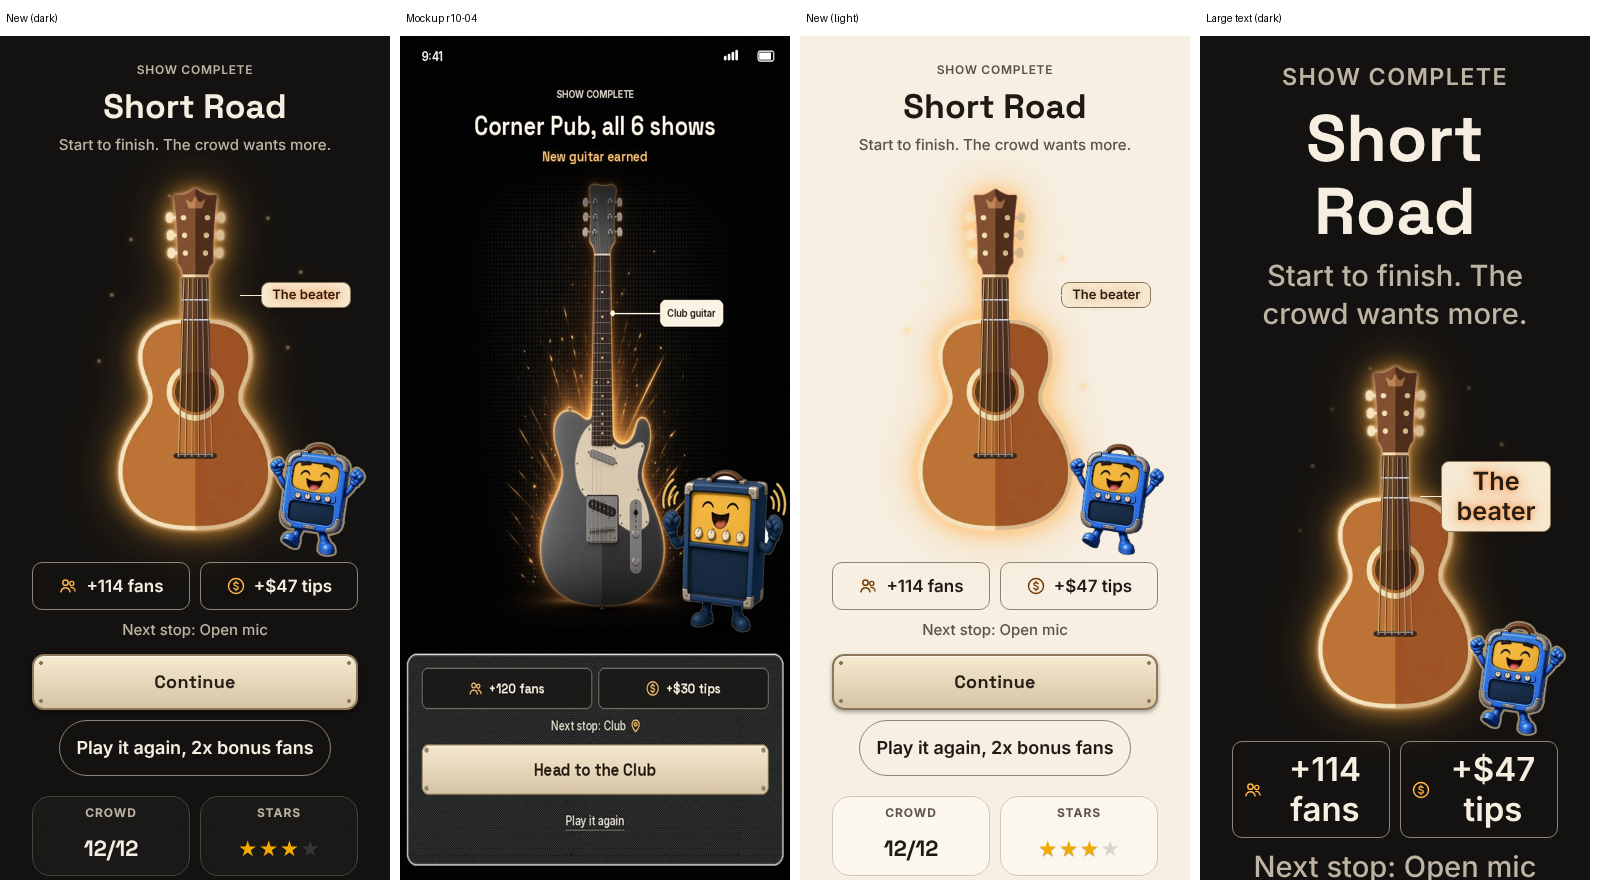
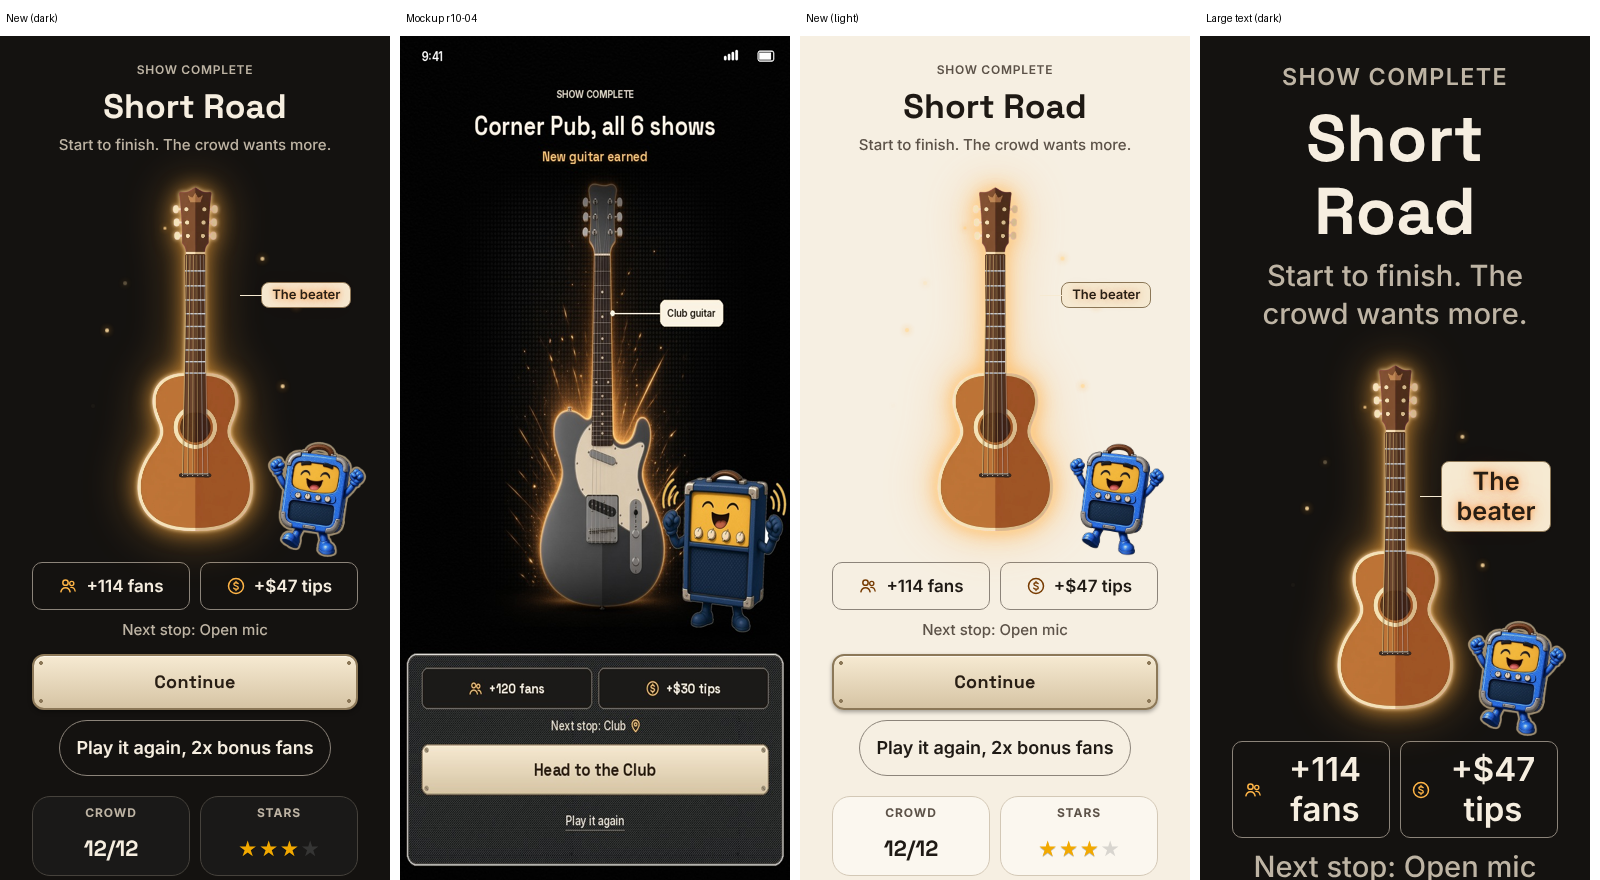
Road Ready 06: the guitar on Show complete has a full-length neck
The guitar was drawn with a two-space neck, which looked stubby at full size. On Show
complete it now has a neck about 0.7 of its body, as on a real guitar, and so does the
case's fallback drawing when a guitar has no whole-guitar picture. The Road's necks and
the Green Room sheet are unchanged. Unit test for the proportion on every guitar
picture; Show complete checks the guitar's shape. Screenshots remade. Surprise 112.

Claude-Session: https://claude.ai/code/session_01JnUP812THQxMaFYV1DxrCe

diff --git a/core.js b/core.js
@@ -8,7 +8,7 @@ import { PASSPORT, PRACTICE_PLAY, STREAK_GOALS, isBarre, journalGot, journalOf, 
 import { DRUM_BEATS, DRUM_PARTS, DRUM_SWING, GROOVE, barHits, cleanDrums, cleanGroove, drumBeatName, drumHits, drumLevelBar, drumStyle, grooveOf, grooveText, partOf, soundOffset } from "./core/groove.js";
 import { GUITAR_SHARE, HEX_KM2, HEX_M, HOLD_DAYS, PRACTICE_MEDIAN, PRACTICE_SPREAD, VENUES, cellsOutline, claimCells, cleanTour, coarseSpot, densityAt, edgePressure, hexNeighbours, hexSpiral, lifetimePlays, localBar, percentileOf, playsForCells, rng, sceneMap, seedOf, simulateRivals, takeoverPlan, territory, tourDay, userAvg7, venueName, venueOf, zOf, cornersSettle } from "./core/turf.js";
 import { CHORD_EXTRA, CHORD_FIT, HEAR, SCALES, chordLead, chordLeadOver, SKILL_LEVELS, bleedProfile, buzzRms, strumFit, chordNotes, chordTargets, chromaOf, cleanSkills, gradeSwitches, judgeTarget, pitchRms, practiceRate, practicing, scaleTargets, skillDone, skillState, roadNote, chordPlays, songsWith, KNOW_PLAYS, stringRange, strumDetector, strumLine, trackFloor } from "./core/neck.js";
-import { COMBO_STEPS, CALLOUT_LOOKS, achSettle, castFor, pickLook, CHANGES_DAYS, changesToWork, LESSON_PASSES, LESSON_XP, lessonDone, lessonKeep, lessonOfDay, lessonPartOf, BAND, BOX_EVERY, GUITARS, guitarFor, guitarNew, guitarsEarned, fretLayout, FRET_STEPS, FRET_MIN, FRET_HEAD, FRET_BODY, cleanGuitars, ME_STARTERS, ME_DEFAULT, ME_HAIR, ME_HAIR_COL, ME_TOP_COL, ME_BEARD, ME_HATS, ME_PATCHES, PATCH_COLOR, STAGE_LOOKS, cleanMe, meOf, meMood, rivalMe, stageLook, stageLookOf, patchesAll, patchesOf, boxesSeed, cleanBoxes, openBox, CHART_DEMOTE, CHART_PROMOTE, COVER_MULT, FANS, FRIEND_QUEST, MERCH, OPENING, QUEST, SOUNDCHECK_XP, XP, addXP, bandMeet, bandParts, bandState, battleFor, chartRivals, chartState, chartsSettle, cleanBand, cleanCharts, cleanDuelLink, cleanDuels, cleanGig, cleanMerch, cleanFame, cleanOpening, cleanQuests, cleanRehearse, cleanXP, coverState, duelRecord, duelWon, fansOf, fansNow, fansToSpend, fameSettle, venueNow, tipsOf, gigTips, tipsMigrate, FADE, friendQuest, friendQuestPick, friendQuestSettle, friendsOf, gelOf, gigCrowd, gigDone, gigFans, gigStart, relativeOf, catchTargets, targetAt, catchStart, catchAt, catchClose, beatsLate, knownChords, merchBuy, merchState, merchTip, merchWear, merchWorn, headlined, looksOwned, lookOfTheme, missedChanges, noteHeard, openingAdvance, openingOn, openingReplay, openingSkip, openingStep, openingView, playableSongs, questState, questsSettle, rainSettle, rehearseMisses, requestSong, roadPath, secondTake, sheetChords, soundcheck, soundcheckDone, startBattle, startDuel, takeDuel, weekOf, weekXP, badgesOf, levelOf, levelStart, xpTotal, showPlayed, showPaused, showWhole, stretchOf, STRETCH, starsOf, starsSettle, STAR_NAMES, STAR_FANS } from "./core/game.js";
+import { COMBO_STEPS, CALLOUT_LOOKS, achSettle, castFor, pickLook, CHANGES_DAYS, changesToWork, LESSON_PASSES, LESSON_XP, lessonDone, lessonKeep, lessonOfDay, lessonPartOf, BAND, BOX_EVERY, GUITARS, guitarFor, guitarNew, guitarsEarned, fretLayout, FRET_STEPS, FRET_MIN, FRET_HEAD, FRET_BODY, FULL_NECK, neckStops, cleanGuitars, ME_STARTERS, ME_DEFAULT, ME_HAIR, ME_HAIR_COL, ME_TOP_COL, ME_BEARD, ME_HATS, ME_PATCHES, PATCH_COLOR, STAGE_LOOKS, cleanMe, meOf, meMood, rivalMe, stageLook, stageLookOf, patchesAll, patchesOf, boxesSeed, cleanBoxes, openBox, CHART_DEMOTE, CHART_PROMOTE, COVER_MULT, FANS, FRIEND_QUEST, MERCH, OPENING, QUEST, SOUNDCHECK_XP, XP, addXP, bandMeet, bandParts, bandState, battleFor, chartRivals, chartState, chartsSettle, cleanBand, cleanCharts, cleanDuelLink, cleanDuels, cleanGig, cleanMerch, cleanFame, cleanOpening, cleanQuests, cleanRehearse, cleanXP, coverState, duelRecord, duelWon, fansOf, fansNow, fansToSpend, fameSettle, venueNow, tipsOf, gigTips, tipsMigrate, FADE, friendQuest, friendQuestPick, friendQuestSettle, friendsOf, gelOf, gigCrowd, gigDone, gigFans, gigStart, relativeOf, catchTargets, targetAt, catchStart, catchAt, catchClose, beatsLate, knownChords, merchBuy, merchState, merchTip, merchWear, merchWorn, headlined, looksOwned, lookOfTheme, missedChanges, noteHeard, openingAdvance, openingOn, openingReplay, openingSkip, openingStep, openingView, playableSongs, questState, questsSettle, rainSettle, rehearseMisses, requestSong, roadPath, secondTake, sheetChords, soundcheck, soundcheckDone, startBattle, startDuel, takeDuel, weekOf, weekXP, badgesOf, levelOf, levelStart, xpTotal, showPlayed, showPaused, showWhole, stretchOf, STRETCH, starsOf, starsSettle, STAR_NAMES, STAR_FANS } from "./core/game.js";
 import { BOOTH_MAX, BOOTH_PLACES, BOOTH_RATE, BOOTH_RIVALS, boothCall, boothChord, boothLabel, boothPath, boothSay, boothSummary, downsample, toBase64, wavBytes, BOOTH_CHORDS, BOOTH_SWITCHES, BOOTH_SECS, BOOTH_THUMB, BOOTH_STRUMS, BOOTH_PLAN, boothNext, boothVerdict, boothSteps, boothSetup, boothSetupKey, boothChange, BOOTH_MORE_CHORDS, BOOTH_MORE_SWITCHES, BOOTH_MORE, BOOTH_LISTS, BOOTH_BODIES, BOOTH_AMPS, boothState, boothGuitar, boothAmpLine, boothServerOk, boothInvite, boothReadInvite } from "./core/booth.js";
 import { ytId, cleanYt, ytAt, ytSong, ytMatches } from "./core/youtube.js";
 
@@ -1529,6 +1529,6 @@ export { PASSPORT, PRACTICE_PLAY, STREAK_GOALS, isBarre, journalGot, journalOf, 
 export { DRUM_BEATS, DRUM_PARTS, DRUM_SWING, GROOVE, barHits, cleanDrums, cleanGroove, drumBeatName, drumHits, drumLevelBar, drumStyle, grooveOf, grooveText, partOf, soundOffset };
 export { GUITAR_SHARE, HEX_KM2, HEX_M, HOLD_DAYS, PRACTICE_MEDIAN, PRACTICE_SPREAD, VENUES, cellsOutline, claimCells, cleanTour, coarseSpot, densityAt, edgePressure, hexNeighbours, hexSpiral, lifetimePlays, localBar, percentileOf, playsForCells, rng, sceneMap, seedOf, simulateRivals, takeoverPlan, territory, tourDay, userAvg7, venueName, venueOf, zOf, cornersSettle };
 export { CHORD_EXTRA, CHORD_FIT, HEAR, SCALES, chordLead, chordLeadOver, SKILL_LEVELS, bleedProfile, buzzRms, strumFit, chordNotes, chordTargets, chromaOf, cleanSkills, gradeSwitches, judgeTarget, pitchRms, practiceRate, practicing, scaleTargets, skillDone, skillState, roadNote, chordPlays, songsWith, KNOW_PLAYS, stringRange, strumDetector, strumLine, trackFloor };
-export { COMBO_STEPS, CALLOUT_LOOKS, achSettle, castFor, pickLook, CHANGES_DAYS, changesToWork, LESSON_PASSES, LESSON_XP, lessonDone, lessonKeep, lessonOfDay, lessonPartOf, BAND, BOX_EVERY, GUITARS, guitarFor, guitarNew, guitarsEarned, fretLayout, FRET_STEPS, FRET_MIN, FRET_HEAD, FRET_BODY, cleanGuitars, ME_STARTERS, ME_DEFAULT, ME_HAIR, ME_HAIR_COL, ME_TOP_COL, ME_BEARD, ME_HATS, ME_PATCHES, PATCH_COLOR, STAGE_LOOKS, cleanMe, meOf, meMood, rivalMe, stageLook, stageLookOf, patchesAll, patchesOf, boxesSeed, cleanBoxes, openBox, CHART_DEMOTE, CHART_PROMOTE, COVER_MULT, FANS, FRIEND_QUEST, MERCH, OPENING, QUEST, SOUNDCHECK_XP, XP, addXP, bandMeet, bandParts, bandState, battleFor, chartRivals, chartState, chartsSettle, cleanBand, cleanCharts, cleanDuelLink, cleanDuels, cleanGig, cleanMerch, cleanFame, cleanOpening, cleanQuests, cleanRehearse, cleanXP, coverState, duelRecord, duelWon, fansOf, fansNow, fansToSpend, fameSettle, venueNow, tipsOf, gigTips, tipsMigrate, FADE, friendQuest, friendQuestPick, friendQuestSettle, friendsOf, gelOf, gigCrowd, gigDone, gigFans, gigStart, relativeOf, catchTargets, targetAt, catchStart, catchAt, catchClose, beatsLate, knownChords, merchBuy, merchState, merchTip, merchWear, merchWorn, headlined, looksOwned, lookOfTheme, missedChanges, noteHeard, openingAdvance, openingOn, openingReplay, openingSkip, openingStep, openingView, playableSongs, questState, questsSettle, rainSettle, rehearseMisses, requestSong, roadPath, secondTake, sheetChords, soundcheck, soundcheckDone, startBattle, startDuel, takeDuel, weekOf, weekXP, badgesOf, levelOf, levelStart, xpTotal, showPlayed, showPaused, showWhole, stretchOf, STRETCH, starsOf, starsSettle, STAR_NAMES, STAR_FANS };
+export { COMBO_STEPS, CALLOUT_LOOKS, achSettle, castFor, pickLook, CHANGES_DAYS, changesToWork, LESSON_PASSES, LESSON_XP, lessonDone, lessonKeep, lessonOfDay, lessonPartOf, BAND, BOX_EVERY, GUITARS, guitarFor, guitarNew, guitarsEarned, fretLayout, FRET_STEPS, FRET_MIN, FRET_HEAD, FRET_BODY, FULL_NECK, neckStops, cleanGuitars, ME_STARTERS, ME_DEFAULT, ME_HAIR, ME_HAIR_COL, ME_TOP_COL, ME_BEARD, ME_HATS, ME_PATCHES, PATCH_COLOR, STAGE_LOOKS, cleanMe, meOf, meMood, rivalMe, stageLook, stageLookOf, patchesAll, patchesOf, boxesSeed, cleanBoxes, openBox, CHART_DEMOTE, CHART_PROMOTE, COVER_MULT, FANS, FRIEND_QUEST, MERCH, OPENING, QUEST, SOUNDCHECK_XP, XP, addXP, bandMeet, bandParts, bandState, battleFor, chartRivals, chartState, chartsSettle, cleanBand, cleanCharts, cleanDuelLink, cleanDuels, cleanGig, cleanMerch, cleanFame, cleanOpening, cleanQuests, cleanRehearse, cleanXP, coverState, duelRecord, duelWon, fansOf, fansNow, fansToSpend, fameSettle, venueNow, tipsOf, gigTips, tipsMigrate, FADE, friendQuest, friendQuestPick, friendQuestSettle, friendsOf, gelOf, gigCrowd, gigDone, gigFans, gigStart, relativeOf, catchTargets, targetAt, catchStart, catchAt, catchClose, beatsLate, knownChords, merchBuy, merchState, merchTip, merchWear, merchWorn, headlined, looksOwned, lookOfTheme, missedChanges, noteHeard, openingAdvance, openingOn, openingReplay, openingSkip, openingStep, openingView, playableSongs, questState, questsSettle, rainSettle, rehearseMisses, requestSong, roadPath, secondTake, sheetChords, soundcheck, soundcheckDone, startBattle, startDuel, takeDuel, weekOf, weekXP, badgesOf, levelOf, levelStart, xpTotal, showPlayed, showPaused, showWhole, stretchOf, STRETCH, starsOf, starsSettle, STAR_NAMES, STAR_FANS };
 export { BOOTH_MAX, BOOTH_PLACES, BOOTH_RATE, BOOTH_RIVALS, boothCall, boothChord, boothLabel, boothPath, boothSay, boothSummary, downsample, toBase64, wavBytes, BOOTH_CHORDS, BOOTH_SWITCHES, BOOTH_SECS, BOOTH_THUMB, BOOTH_STRUMS, BOOTH_PLAN, boothNext, boothVerdict, boothSteps, boothSetup, boothSetupKey, boothChange, BOOTH_MORE_CHORDS, BOOTH_MORE_SWITCHES, BOOTH_MORE, BOOTH_LISTS, BOOTH_BODIES, BOOTH_AMPS, boothState, boothGuitar, boothAmpLine, boothServerOk, boothInvite, boothReadInvite };
 export { ytId, cleanYt, ytAt, ytSong, ytMatches };

diff --git a/fretboard.js b/fretboard.js
@@ -9,7 +9,7 @@
 //
 // Woods and finishes keep the guitar's own colours in every look; only dots, rings, halos and tags take the
 // look's colours (styles.css, "The fretboard Road").
-import { fretLayout, guitarFor, VERSION } from "./core.js";
+import { fretLayout, guitarFor, neckStops, FRET_BODY, VERSION } from "./core.js";
 import PICS from "./art/guitars/pics.js";
 
 const W = 390, CX = 195;
@@ -399,10 +399,12 @@ export function neckHTML(leg, o) {
 }
 
 /* a guitar on its own (the new-guitar sheet): the headstock, a short neck and the body */
-export function guitarSVG(id) {
-  const g = guitarFor(id), stops = [{ kind: "chord", state: "locked" }, { kind: "chord", state: "locked" }], pc = picOf(id);
-  if (!pc) { const lay = fretLayout(stops); return `<svg class="rd-gsvg" viewBox="0 0 ${W} ${lay.height}" role="img" aria-label="${g.name}">${baseLayer(g, lay)}${stringLayer(g, lay)}</svg>`; }
+/* full (Road Ready 06): a neck in a real guitar's proportion, for a guitar shown on its own (neckStops in core/game.js);
+   without it the neck is two spaces long, as the small picture on the earlier new-guitar sheet always was */
+export function guitarSVG(id, { full = false } = {}) {
+  const g = guitarFor(id), pc = picOf(id), spaces = n => Array.from({ length: n }, () => ({ kind: "chord", state: "locked" }));
+  if (!pc) { const lay = fretLayout(spaces(full ? neckStops(FRET_BODY) : 2)); return `<svg class="rd-gsvg" viewBox="0 0 ${W} ${lay.height}" role="img" aria-label="${g.name}">${baseLayer(g, lay)}${stringLayer(g, lay)}</svg>`; }
   /* the body is wider than the screen on the Road, so the whole guitar is drawn wider to show all of it */
-  const lay = picLayout(stops, pc.p), half = 1.25 * W / 2 + 6;
+  const lay = picLayout(spaces(full ? neckStops(picLayout(spaces(2), pc.p).body) : 2), pc.p), half = 1.25 * W / 2 + 6;
   return `<svg class="rd-gsvg" viewBox="${CX - half} 0 ${half * 2} ${lay.height}" role="img" aria-label="${g.name}">${baseLayer(g, lay, pc.f)}${stringLayer(g, lay)}</svg>`;
 }

diff --git a/core/game.js b/core/game.js
@@ -116,6 +116,15 @@ export function fretLayout(stops, head = FRET_HEAD, body = FRET_BODY) {
   });
   return { spaces, neck: y, head, body, height: head + y + body };
 }
+/* A guitar shown on its own (Show complete, the new-guitar case, Road Ready 06) gets a neck in a real guitar's
+   proportion: on a real guitar the neck from the nut to the body is about 0.7 of the body's length (14 inches to 20).
+   neckStops is how many fret spaces reach that; a leg's neck on the Road keeps one space per stop. */
+export const FULL_NECK = 0.7;
+export function neckStops(body) {
+  let n = 0, y = 0;
+  while (y < FULL_NECK * body) y += FRET_STEPS[n++] ?? FRET_MIN;
+  return n;
+}
 /* The guitars you've earned: every leg whose headline show is done, in order, plus the first. Shown once each. */
 export const guitarsEarned = (data, now = Date.now()) => roadPath(data, now).legs.filter(l => l.done).map(l => l.id);
 export function cleanGuitars(raw) {

diff --git a/road.js b/road.js
@@ -412,7 +412,7 @@ function guitarEarned(road) {
       <p class="sc-new">New guitar earned</p>
       <div class="sc-show case" aria-hidden="true">
         <i class="sc-corner tl"></i><i class="sc-corner tr"></i><i class="sc-corner bl"></i><i class="sc-corner br"></i>
-        <span class="sc-case"><span class="sc-guitar">${guitarPic(gn.guitar.body) ? `<img src="${guitarPic(gn.guitar.body)}" alt="">` : guitarSVG(gn.next)}</span></span>
+        <span class="sc-case"><span class="sc-guitar">${guitarPic(gn.guitar.body) ? `<img src="${guitarPic(gn.guitar.body)}" alt="">` : guitarSVG(gn.next, { full: true })}</span></span>
         <span class="sc-label">${esc(gn.guitar.name)}</span>
         <span class="sc-louie">${louie("cheer", { size: 96 })}</span>
       </div>

diff --git a/gig.js b/gig.js
@@ -367,7 +367,7 @@ function showComplete() {
     <p class="gc-s sc-sub">Start to finish.${whole ? " The crowd wants more." : ""}</p>
     <div class="sc-show glow" aria-hidden="true">
       <span class="sc-sparks">${sparks}</span>
-      <div class="sc-guitar">${guitarSVG(leg?.id || "open")}</div>
+      <div class="sc-guitar">${guitarSVG(leg?.id || "open", { full: true })}</div>
       <span class="sc-label">${esc(gname)}</span>
       <span class="sc-louie">${louie("cheer", { size: 96 })}</span>
     </div>

diff --git a/docs/ROAD-READY-PLAN.md b/docs/ROAD-READY-PLAN.md
@@ -212,4 +212,5 @@ Found in the review of step 06 (2026-11-18, a separate conversation, Claude Opus
 109. **Two Surprises were numbered 100.** `rr-05-polish`'s note took 100 before step 06 was built. Fixed in review: step 06's are now 101 to 108.
 110. **The light picture in `rr-06/show-complete.png` was out of date.** It showed the Stars tile in the old blue, which the code no longer draws (the Road Ready card wins). Fixed in review: the light panel is remade from the branch as it is.
 111. **Not from step 06, found in review: a page error can end "Road Ready 02: every stop and header control ...".** Under load, once in two `quick.mjs` runs, the page threw `getComputedStyle ... parameter 1 is not of type 'Element'` after the test visited the Tour Map and went back. Most likely `fit()` in `playmap.js` (line 220) running after the map page is gone, so `.tm-page` is null. It passes alone. Not fixed here; add to the flaky list in 95. "Sing it" (95) also failed once in the same run and passed alone.
+112. **The guitar on Show complete looked stubby.** `guitarSVG()` builds the neck from two fret spaces, which was fine for the small picture on the earlier new-guitar sheet but at full size gave a full body on half a neck. Fixed in review on Graham's go: `guitarSVG(id, { full: true })` gives a neck about 0.7 of the body, as on a real guitar (`neckStops` and `FULL_NECK` in `core/game.js`), used on Show complete and as the case's fallback when a guitar has no whole-guitar picture (the case itself now shows the whole-guitar picture, 105). The Road's necks and Green Room's sheet are unchanged. Tests: a unit test for the proportion on every guitar picture, and Show complete checks its guitar is at least 2.5 times as tall as wide. Show complete screenshots remade.
 
